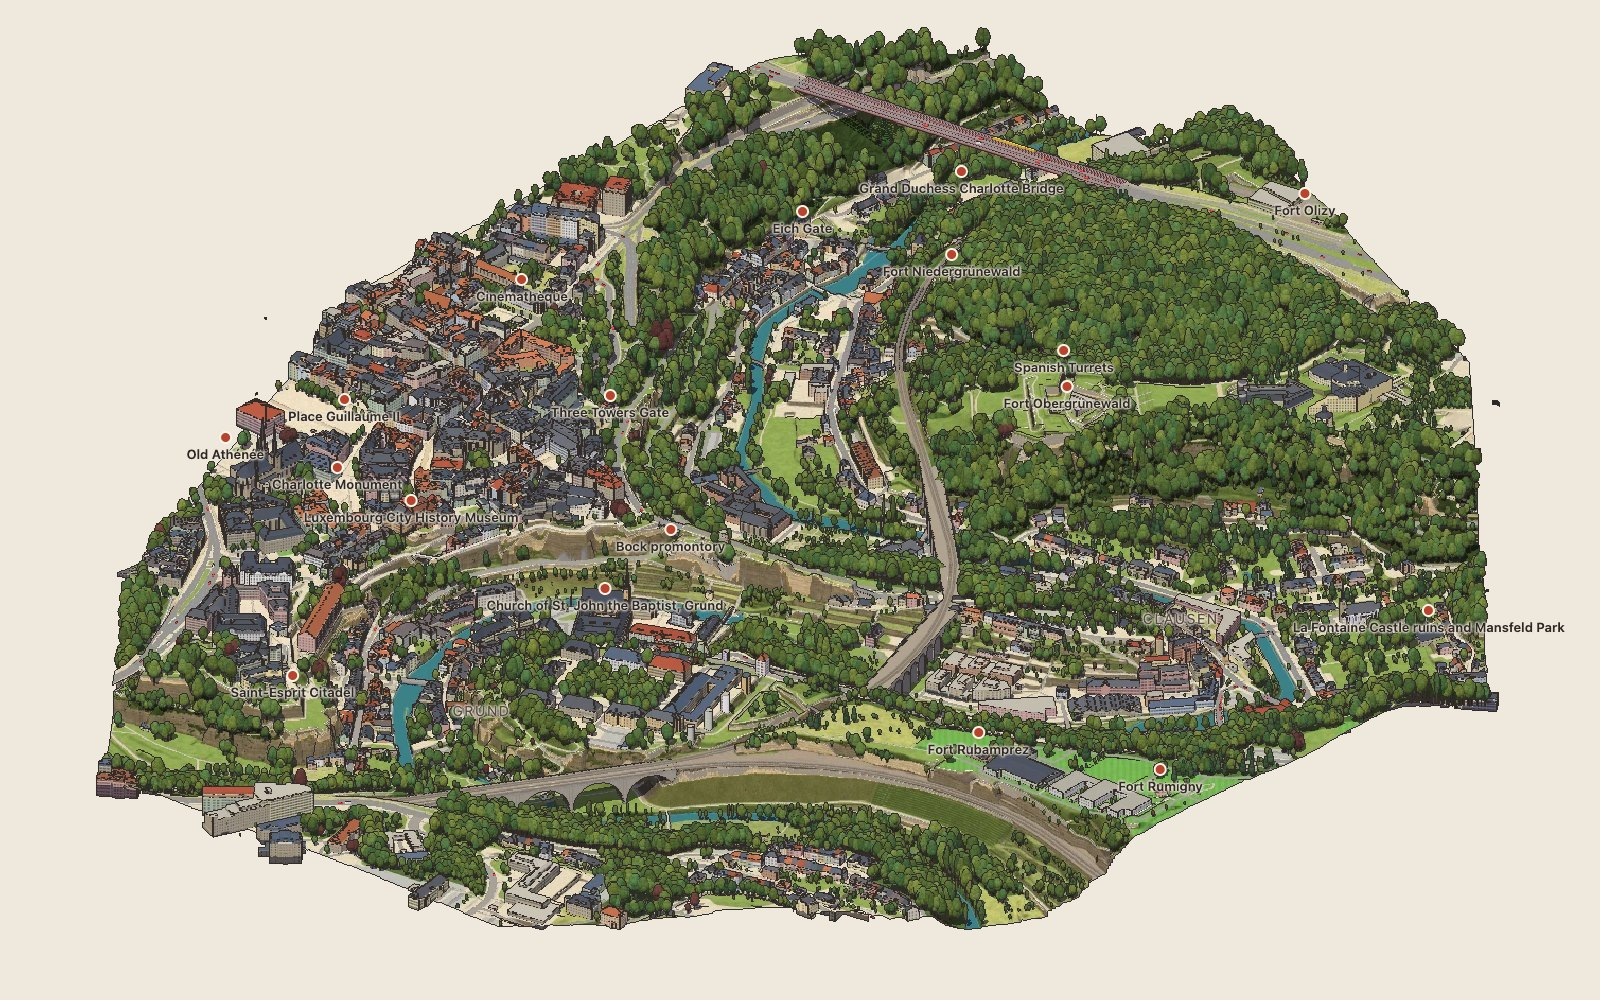
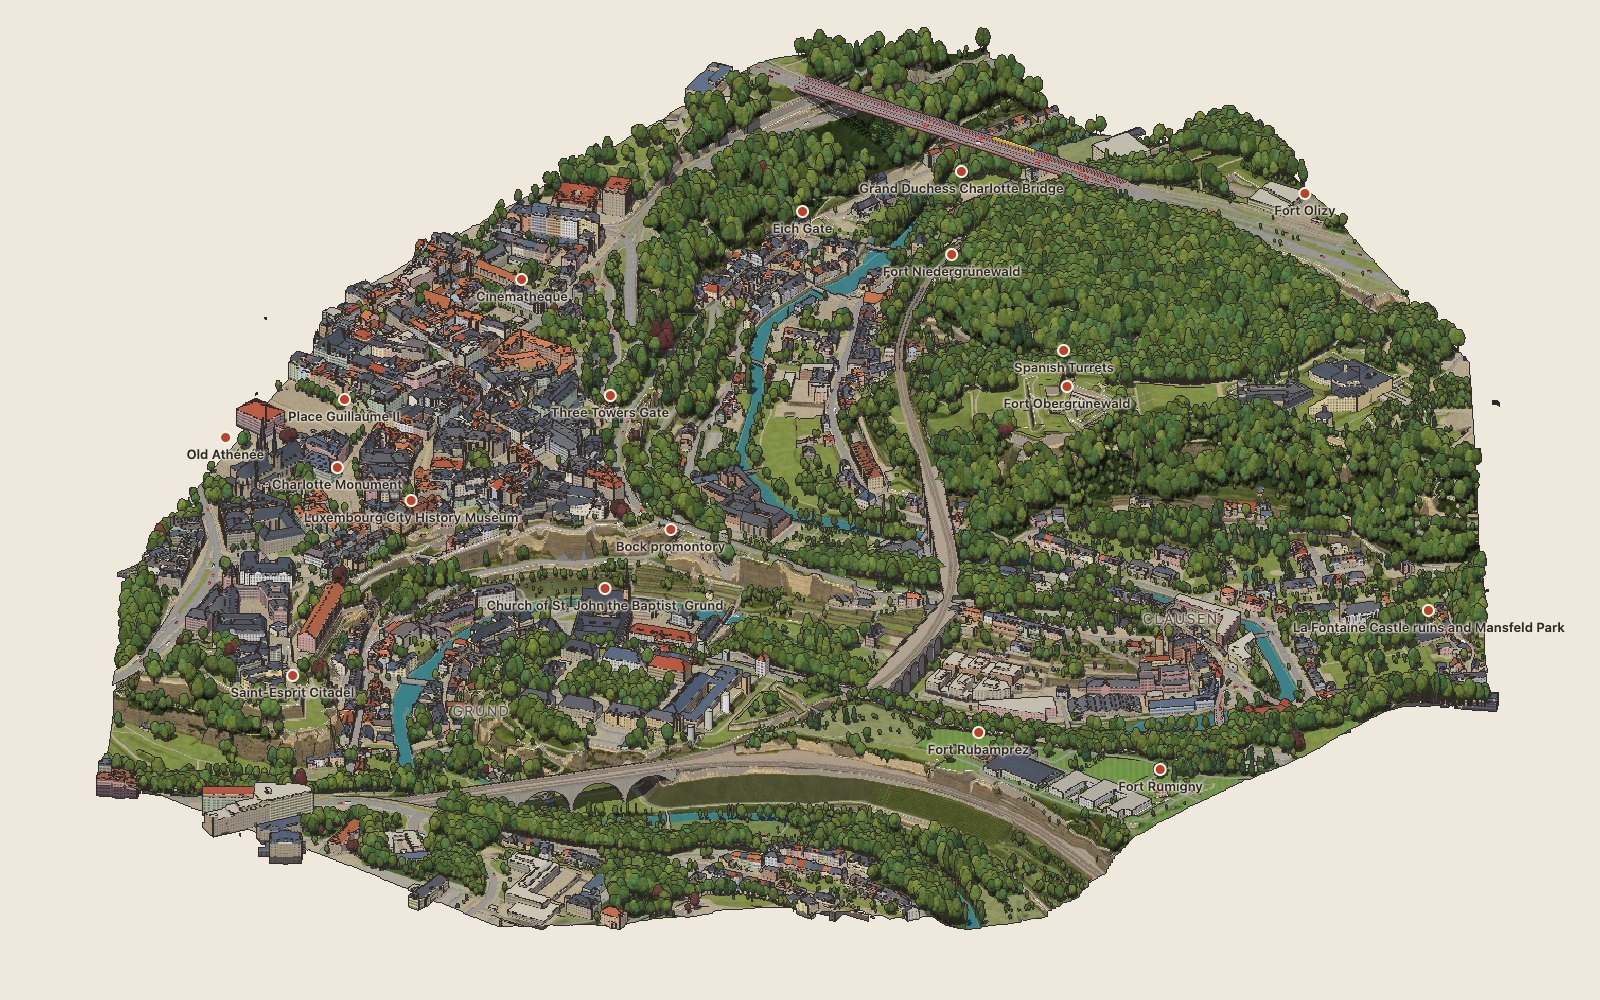
v2: the ground at v1's tones, with larger paving flags and calmer lawns
Measured class by class on v1's art and the T4 paintings (which agree): v1's
paving and squares are about 30 percent darker than v2's were, its grass about
17 percent darker and more olive. The ground palette, and the pedestrian, path
and steps colours that lie in the same plane, are set to those tones. Paving
flags are 2.2 m by 1.1 m (1.5 by 0.75), square setts 1.4 m; lawns keep their
patches and lose half their flecks. Release 66735929c193, 59 of 59 stages.

diff --git a/v2/layers/detail.py b/v2/layers/detail.py
@@ -102,10 +102,10 @@ def rock(e, n, z, seed=3):
 
 # Ground classes' detail: smooth tone over (large, small) patches in metres with their strengths, and the share of
 # pixels drawn as darker and lighter flecks (blades, leaves, gravel).
-GREEN = {"grass": ((4.0, 0.9), (0.05, 0.04), 0.035, 0.03), "meadow": ((5.0, 1.1), (0.06, 0.05), 0.05, 0.04),
+GREEN = {"grass": ((4.0, 0.9), (0.06, 0.04), 0.018, 0.014), "meadow": ((5.0, 1.1), (0.07, 0.05), 0.03, 0.025),
          "garden": ((2.5, 0.8), (0.07, 0.06), 0.05, 0.04), "cemetery": ((3.0, 0.9), (0.05, 0.04), 0.03, 0.03),
          "scrub": ((3.0, 1.2), (0.08, 0.07), 0.07, 0.04), "wood": ((4.0, 1.4), (0.09, 0.08), 0.08, 0.03),
-         "pitch": ((6.0, 1.0), (0.02, 0.02), 0.02, 0.02)}
+         "pitch": ((6.0, 1.0), (0.02, 0.02), 0.012, 0.012)}
 FLOWERS = ("flower_red", "flower_yellow", "flower_white", "flower_violet")
 
 
@@ -118,12 +118,12 @@ def ground_detail(rgb, k, names, e, n, z, px, py):
     fine = ihash(px, py, 9)                                   # one hash per map pixel
     m = of("paved")
     if m.any():
-        t, j = slabs(e[m], n[m], 1.5, 0.75, 0.2, joint=0.07, tone=0.035, seed=1)
-        rgb[m] *= (t * (1 - 0.13 * j))[:, None]
+        t, j = slabs(e[m], n[m], 2.2, 1.1, 0.2, joint=0.06, tone=0.04, seed=1)      # flags, as v1 drew paving
+        rgb[m] *= (t * (1 - 0.12 * j))[:, None]
     m = of("square")
     if m.any():
-        t, j = slabs(e[m], n[m], 0.9, 0.9, 0.2, joint=0.08, tone=0.05, seed=2)
-        rgb[m] *= (t * (1 - 0.16 * j))[:, None]
+        t, j = slabs(e[m], n[m], 1.4, 1.4, 0.2, joint=0.07, tone=0.05, seed=2)
+        rgb[m] *= (t * (1 - 0.14 * j))[:, None]
     for c, amount in (("parking", 0.05), ("railground", 0.09), ("buildsite", 0.07)):
         m = of(c)
         if m.any():
